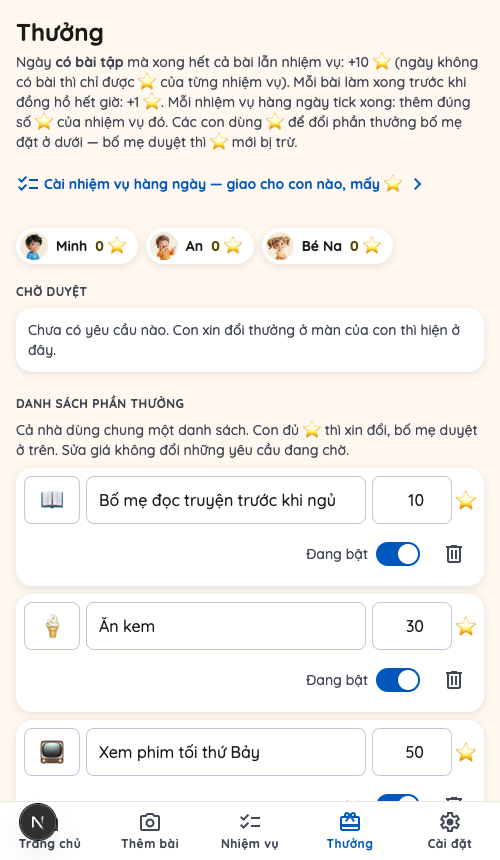
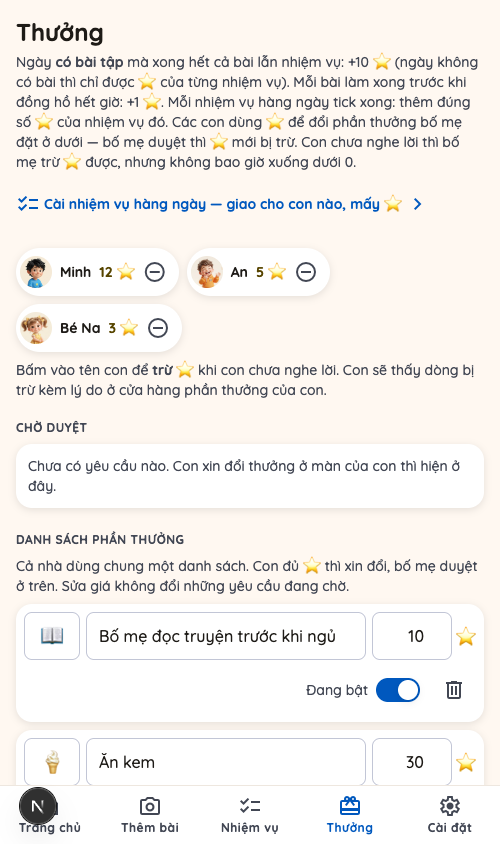
no-mistakes(document): sync trừ ⭐ docs: screenshot, README structure, migration comment

Changed region(s): [[0.03, 0.0308, 0.96, 0.9858], [0.48, 0.9242, 0.54, 0.9858]]

diff --git a/README.md b/README.md
@@ -142,24 +142,26 @@ app/con/        5 màn của trẻ: chọn con → bài hôm nay → chi tiết 
                 và cửa hàng phần thưởng (thuong/)
 app/bome/       màn của bố mẹ: PIN, tạo nhà, tổng quan, thêm bài, kiểm tra lại,
                 nhập tay, sửa bài, thêm con, chi tiết theo con, danh sách,
-                thưởng (duyệt đổi thưởng + danh sách phần thưởng), cài đặt,
-                nhiệm vụ hàng ngày (trang riêng: giao cho con nào, mấy ⭐, nhóm)
+                thưởng (duyệt đổi thưởng + danh sách phần thưởng + trừ ⭐ của
+                con), cài đặt, nhiệm vụ hàng ngày (trang riêng: giao cho con
+                nào, mấy ⭐, nhóm)
 app/api/        children, assignments, pin, families (tạo nhà/đổi tên),
                 nha (gắn máy), extract (Nous Portal), upload (ảnh đề bài),
                 upload-media (tệp bố mẹ đính kèm), nop-video (video con nộp),
                 viec-nha (cấu hình nhiệm vụ hàng ngày của bố mẹ, cần PIN),
                 phan-thuong (bố mẹ đặt phần thưởng, cần PIN), tru-diem (bố mẹ
-                trừ ⭐ của con, cần PIN), doi-thuong (con
-                xin đổi — không cần PIN; bố mẹ duyệt — cần PIN),
-                tep (đọc tệp đã ghi ở .data/uploads khi dev)
+                trừ ⭐ của con, cần PIN), doi-thuong (con xin đổi — không cần
+                PIN; bố mẹ duyệt — cần PIN), tep (đọc tệp đã ghi ở
+                .data/uploads khi dev)
 app/_components/ BanPhimPin — bàn phím số dùng chung cho 4 chỗ nhập PIN
 lib/            db (Neon|PGlite), store (truy vấn theo familyId), auth (PIN +
                 cookie có chữ ký), pin (PIN_LEN dùng cả hai phía), diem (luật
                 tính điểm, hàm thuần), nhomNhiemVu (dòng nào nằm trên màn của
                 con + hai nhóm nhiệm vụ), sqlNhiemVu (câu SQL tạo dòng nhiệm vụ
-                của ngày, dùng chung với seed và test), media + upload-route
-                (giới hạn tệp, tên/URL tệp, thân chung hai route tải lên),
-                avatar, ai, types
+                của ngày, dùng chung với seed và test), sqlDiem (câu SQL số dư ⭐
+                + trừ điểm + duyệt đổi thưởng, dùng chung với test), ngay (mốc
+                ngày + múi giờ nhà), media + upload-route (giới hạn tệp, tên/URL
+                tệp, thân chung hai route tải lên), avatar, ai, types
 proxy.ts        chặn /bome/* khi chưa nhập PIN
 migrations/     từng bước thay đổi lược đồ, chạy theo thứ tự tên tệp (bám PRD mục 7)
 scripts/        db.mjs (kết nối + bộ chạy migration), migrate.mjs (CLI, chạy khi
